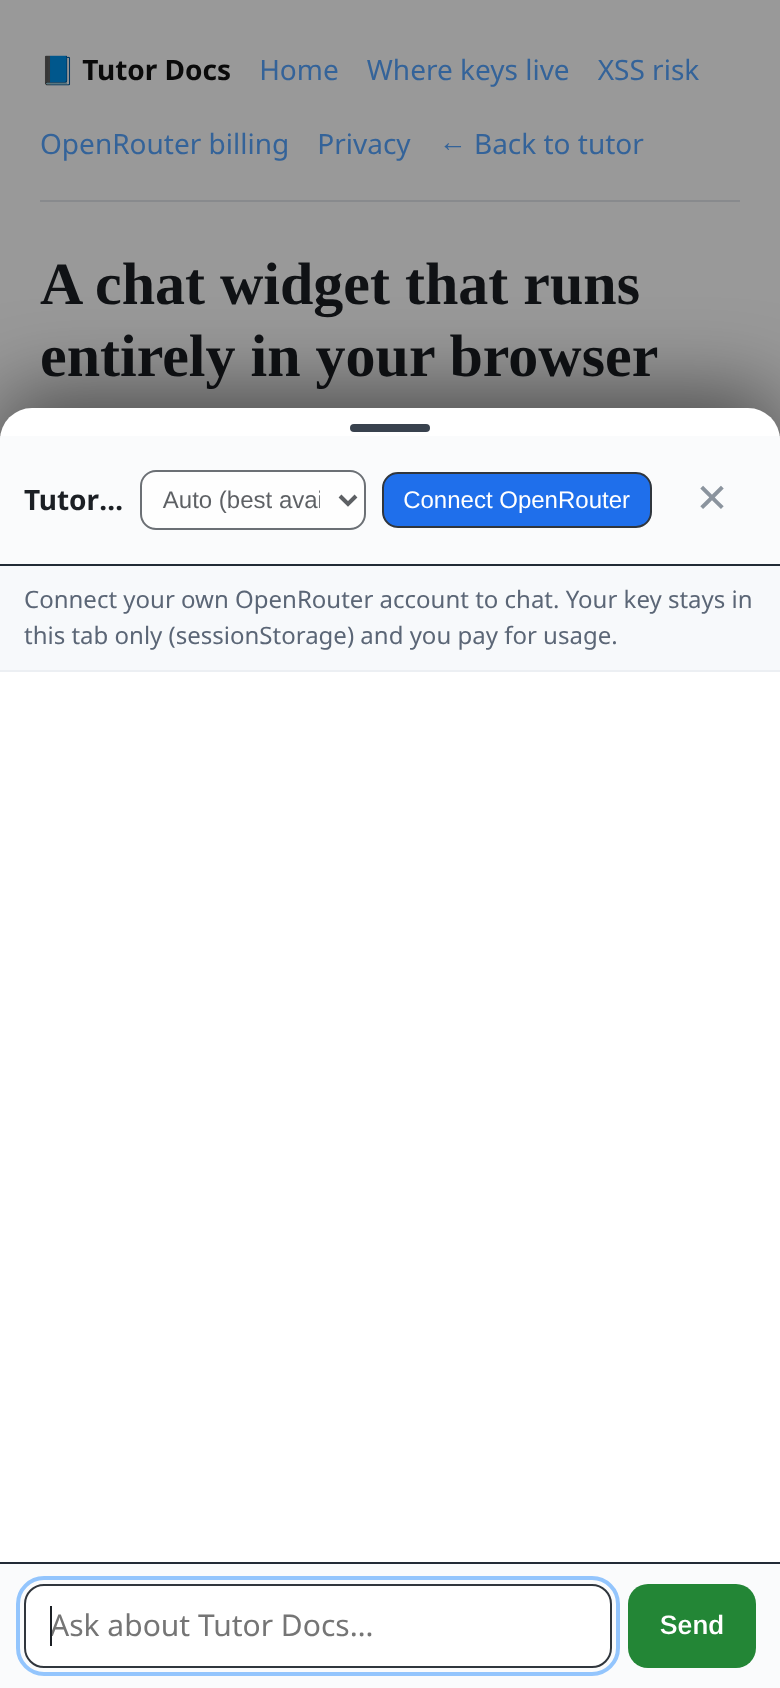
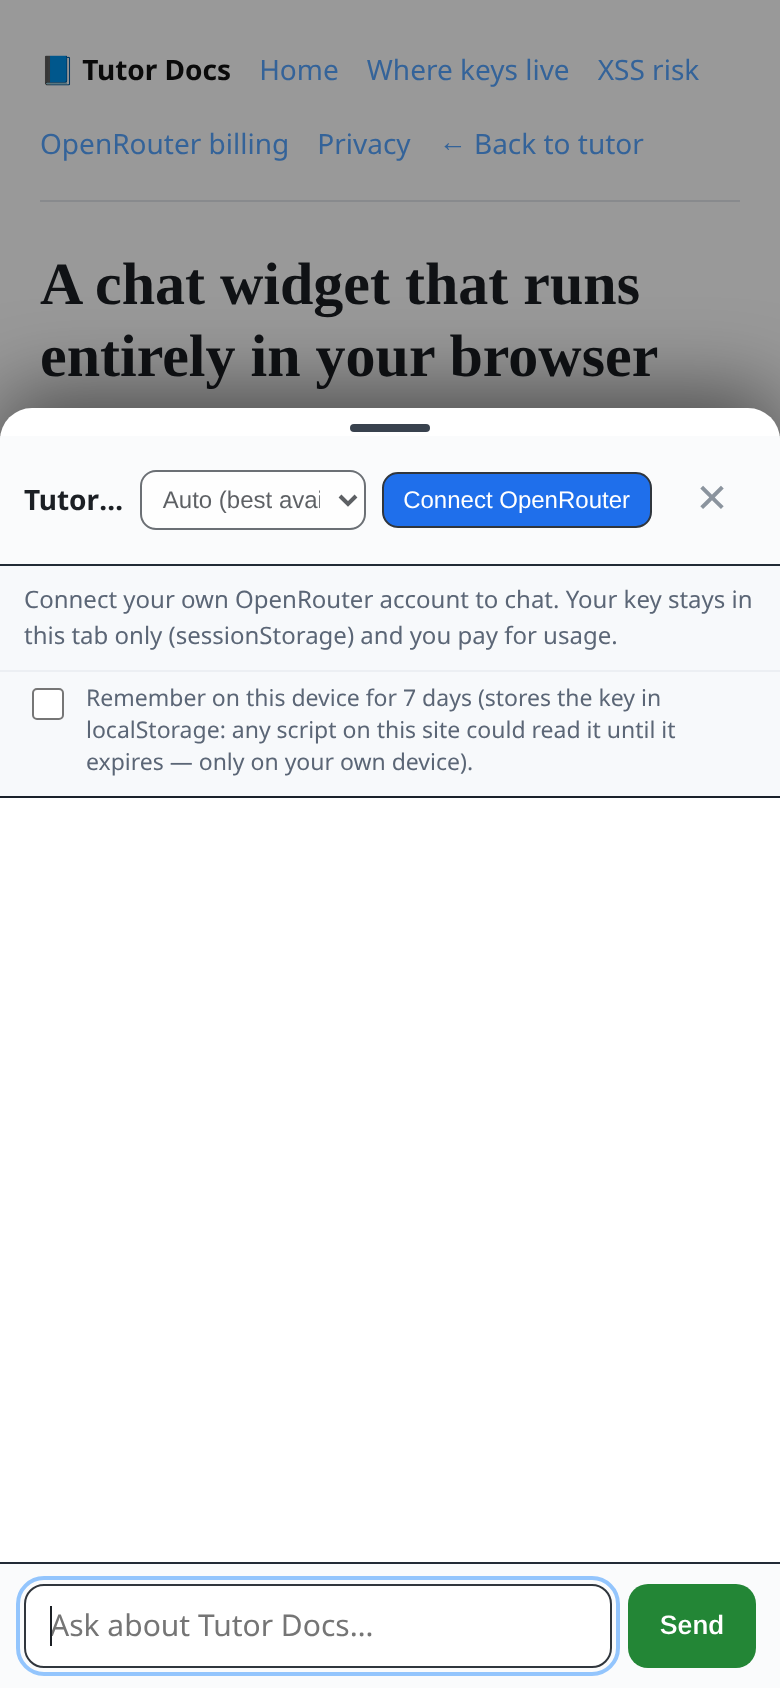
Widget OAuth: callback survives a new tab/Custom Tab; never fails silently
Root cause (Android Chrome report: back from OpenRouter but not connected): the
PKCE verifier was kept in sessionStorage, which is per-tab. When the OpenRouter
return opens in a new tab / Custom Tab / installed-app window, that storage is
empty, and the callback handler did 'if no verifier: return' -> no exchange, no
message, sheet closed, code left in the URL. Reproduced live.

- Verifier + random state in localStorage, 10-min TTL, one-time (deleted on
  use), state validated; challenge stays S256 base64url (no padding).
- Callback captured and the exchange started at script load, before UI/assets;
  code/state scrubbed from the URL immediately; works on /widget, /widget/ and
  /widget/index.html (/widget redirect now keeps the query).
- Result always shown: auto-opens the sheet with 'Connected', or the exact
  OpenRouter error text / missing / expired / state-mismatch / denied message.
- Key stays sessionStorage by default; opt-in 'Remember on this device' (7-day
  localStorage copy, explicit warning, picked up by other tabs, wiped by
  Disconnect).
- ?btw_debug=1 trace (sticky across the round-trip) shows callback steps; never
  the code or key.
- New scripts/widget-oauth-e2e.mjs (29 checks, new-tab return, forged state,
  REAL bogus-code error in UI); lesson page, gotcha and README updated.

Changed region(s): [[0.0923, 0.4005, 0.8615, 0.4621]]

diff --git a/public/widget.js b/public/widget.js
@@ -34,7 +34,11 @@
 
   // Own storage keys (never bt_sess / bt_chat).
   var K_KEY = "btw_or_key", K_UID = "btw_or_uid", K_MODEL = "btw_model",
-      K_CHAT = "btw_chat", K_PKCE = "btw_pkce";
+      K_CHAT = "btw_chat", K_PKCE = "btw_pkce",
+      // localStorage (survives a new tab / Custom Tab / installed-app return):
+      K_REMEMBER = "btw_remember", K_PERSIST = "btw_or_key_persist", K_DEBUG = "btw_debug";
+  var PKCE_TTL = 10 * 60 * 1000;            // matches OpenRouter's 10-minute code expiry
+  var REMEMBER_TTL = 7 * 24 * 3600 * 1000;  // opt-in "remember on this device"
 
   // Curated models for the picker. Default Auto; includes free models.
   var MODELS = [
@@ -163,6 +167,45 @@
   function sget(k) { var s = ss(); try { return s ? s.getItem(k) : null; } catch (e) { return null; } }
   function sset(k, v) { var s = ss(); try { if (s) s.setItem(k, v); } catch (e) {} }
   function sdel(k) { var s = ss(); try { if (s) s.removeItem(k); } catch (e) {} }
+  function ls() { try { return window.localStorage; } catch (e) { return null; } }
+  function lget(k) { var s = ls(); try { return s ? s.getItem(k) : null; } catch (e) { return null; } }
+  function lset(k, v) { var s = ls(); try { if (s) s.setItem(k, v); } catch (e) {} }
+  function ldel(k) { var s = ls(); try { if (s) s.removeItem(k); } catch (e) {} }
+
+  // ---- debug trace (?btw_debug=1 turns it on, sticky across the OAuth round-trip; ?btw_debug=0 off) ----
+  // Never records the authorization code or the key: only presence, lengths-free status and HTTP codes.
+  var DBG = [], DBG_EL = null;
+  function dbg(line) { DBG.push(new Date().toISOString().slice(11, 19) + "  " + line); if (DBG_EL) DBG_EL.textContent = DBG.join("\n"); }
+
+  // ---- OAuth callback capture: runs immediately on load, BEFORE any UI or asset loading ----
+  var CALLBACK = null;
+  (function captureCallback() {
+    var qs; try { qs = new URLSearchParams(location.search); } catch (e) { return; }
+    if (qs.has("btw_debug")) { if (qs.get("btw_debug") === "0") ldel(K_DEBUG); else lset(K_DEBUG, "1"); qs.delete("btw_debug"); }
+    var code = qs.get("code"), state = qs.get("state"), err = qs.get("error");
+    // Only treat it as OUR callback if it carries a state or we have a pending sign-in (so a host page's
+    // own ?code= is never hijacked).
+    var ours = (code || err) && (state || lget(K_PKCE));
+    if (ours) {
+      CALLBACK = { code: code, state: state, error: err };
+      ["code", "state", "error", "error_description"].forEach(function (k) { qs.delete(k); });
+    }
+    if (ours || location.search !== (qs.toString() ? "?" + qs.toString() : "")) {
+      // Scrub the one-time code (and the debug flag) from the address bar and history right away.
+      try { window.history.replaceState(window.history.state, document.title, location.pathname + (qs.toString() ? "?" + qs.toString() : "") + location.hash); } catch (e) {}
+    }
+    if (lget(K_DEBUG) === "1") {
+      dbg("debug on; page " + location.pathname);
+      dbg("pending sign-in in localStorage: " + (lget(K_PKCE) ? "yes" : "no"));
+      if (CALLBACK) dbg("callback detected: code " + (CALLBACK.code ? "present" : "absent") + ", state " + (CALLBACK.state ? "present" : "absent") + (CALLBACK.error ? ", error=" + String(CALLBACK.error).slice(0, 40) : ""));
+    }
+  })();
+  // Restore an opted-in remembered key into this tab (expired ones are purged).
+  (function restoreRemembered() {
+    if (sget(K_KEY)) return;
+    var raw = lget(K_PERSIST); if (!raw) return;
+    try { var p = JSON.parse(raw); if (p && p.k && p.exp > Date.now()) { sset(K_KEY, p.k); dbg("restored remembered key (expires " + new Date(p.exp).toISOString().slice(0, 10) + ")"); } else ldel(K_PERSIST); } catch (e) { ldel(K_PERSIST); }
+  })();
 
   var cfg = {
     siteName: (ME && ME.getAttribute("data-site-name")) || "this site",
@@ -229,31 +272,68 @@
   async function prepareAuth() {
     var verifier = makeVerifier(), state = randState();
     var challenge = await pkceChallenge(verifier);
-    sset(K_PKCE, JSON.stringify({ v: verifier, st: state, t: Date.now() }));
+    // localStorage (not sessionStorage) so the verifier survives the return landing in a NEW tab, a Custom
+    // Tab or an installed-app context. Short TTL, one-time: deleted the moment the callback reads it.
+    lset(K_PKCE, JSON.stringify({ v: verifier, st: state, t: Date.now(), exp: Date.now() + PKCE_TTL }));
     var u = new URL(OR_AUTH);
     u.searchParams.set("callback_url", location.origin + location.pathname);
     u.searchParams.set("code_challenge", challenge);
     u.searchParams.set("code_challenge_method", "S256");
     u.searchParams.set("state", state);
+    dbg("sign-in started; verifier stored (10 min, one-time); redirecting to OpenRouter");
     return u.toString();
   }
-  // Exchange a returned ?code for an sk-or key. Verifies state. Stores key in sessionStorage only.
-  async function exchangeCode(code, state) {
-    var raw = sget(K_PKCE); sdel(K_PKCE);
-    var pk = raw ? JSON.parse(raw) : null;
-    if (!pk || !pk.v || pk.st !== state) throw new Error("state mismatch");
-    var r = await fetch(OR_KEYS, {
-      method: "POST", headers: { "Content-Type": "application/json" },
-      body: JSON.stringify({ code: code, code_verifier: pk.v, code_challenge_method: "S256" })
-    });
-    var j = await r.json().catch(function () { return {}; });
-    if (!r.ok || !j.key) throw new Error("exchange failed (HTTP " + r.status + ")");
-    sset(K_KEY, j.key);
-    if (j.user_id) sset(K_UID, String(j.user_id));
-    return true;
+  function storeKey(key, uid) {
+    sset(K_KEY, key);
+    if (uid) sset(K_UID, String(uid));
+    if (lget(K_REMEMBER) === "1") lset(K_PERSIST, JSON.stringify({ k: key, exp: Date.now() + REMEMBER_TTL }));
   }
+  // Complete an OAuth return. Never throws; resolves {ok, error} so the UI can always say what happened.
+  async function runCallback(cb) {
+    var raw = lget(K_PKCE); ldel(K_PKCE); // one-time
+    var pk = null; try { pk = raw ? JSON.parse(raw) : null; } catch (e) {}
+    if (!cb.code) {
+      dbg("authorization: not granted" + (cb.error ? " (" + String(cb.error).slice(0, 40) + ")" : ""));
+      return { ok: false, error: "OpenRouter sign-in was cancelled or denied" + (cb.error ? " (" + String(cb.error).slice(0, 60) + ")" : "") + ". Tap Connect OpenRouter to try again." };
+    }
+    if (!pk || !pk.v) {
+      dbg("stored verifier: MISSING");
+      return { ok: false, error: "This sign-in wasn't started in this browser (or its site data was cleared), so it can't be completed here. Tap Connect OpenRouter to start again from this page." };
+    }
+    if (!pk.exp || pk.exp < Date.now()) {
+      dbg("stored verifier: EXPIRED");
+      return { ok: false, error: "The sign-in took longer than 10 minutes and expired. Tap Connect OpenRouter to try again." };
+    }
+    dbg("stored verifier: present (started " + Math.round((Date.now() - (pk.t || Date.now())) / 1000) + "s ago)");
+    if (!cb.state || cb.state !== pk.st) {
+      dbg("state match: NO — rejected, no exchange attempted");
+      return { ok: false, error: "Security check failed: the sign-in response didn't match the request (state mismatch). Tap Connect OpenRouter to try again." };
+    }
+    dbg("state match: yes; exchanging code at openrouter.ai");
+    var r, j;
+    try {
+      r = await fetch(OR_KEYS, { method: "POST", headers: { "Content-Type": "application/json" },
+        body: JSON.stringify({ code: cb.code, code_verifier: pk.v, code_challenge_method: "S256" }) });
+      j = await r.json().catch(function () { return {}; });
+    } catch (e) {
+      dbg("exchange: network error");
+      return { ok: false, error: "Couldn't reach OpenRouter to finish connecting (" + String((e && e.message) || e) + "). Check your connection and tap Connect OpenRouter again." };
+    }
+    dbg("exchange: HTTP " + r.status + (j && j.key ? " (key received)" : ""));
+    if (!r.ok || !j || !j.key) {
+      var m = (j && j.error && (j.error.message || j.error)) || j.message || "no key returned";
+      return { ok: false, error: "OpenRouter said: \u201c" + String(m).replace(/sk-or-[A-Za-z0-9._-]+/g, "[redacted]").slice(0, 200) + "\u201d (HTTP " + r.status + "). Tap Connect OpenRouter to try again." };
+    }
+    storeKey(j.key, j.user_id);
+    dbg("key stored in this tab's sessionStorage" + (lget(K_REMEMBER) === "1" ? " + remembered on this device (7 days)" : ""));
+    return { ok: true };
+  }
+  // Kept for tests/back-compat: throws on failure.
+  async function exchangeCode(code, state) { var r = await runCallback({ code: code, state: state }); if (!r.ok) throw new Error(r.error); return true; }
   function connected() { return !!sget(K_KEY); }
-  function disconnect() { [K_KEY, K_UID, K_CHAT, K_MODEL].forEach(sdel); }
+  function disconnect() { [K_KEY, K_UID, K_CHAT, K_MODEL].forEach(sdel); ldel(K_PERSIST); ldel(K_REMEMBER); ldel(K_PKCE); }
+  // Start the code exchange NOW, in parallel with loading the UI assets, so nothing can skip it.
+  var EXCHANGE = CALLBACK ? runCallback(CALLBACK) : null;
 
   // ------------------------------ chat (stream) -----------------------------
   async function streamChat(messages, model, onDelta, signal) {
@@ -334,13 +414,21 @@
 
     var log = h("div", "btw-log"); log.setAttribute("aria-live", "polite");
     var note = h("div", "btw-note");
+    var remWrap = h("label", "btw-remember");
+    var rem = document.createElement("input"); rem.type = "checkbox"; rem.checked = lget(K_REMEMBER) === "1";
+    var remTxt = h("span", null, "Remember on this device for 7 days (stores the key in localStorage: any script on this site could read it until it expires — only on your own device).");
+    remWrap.appendChild(rem); remWrap.appendChild(remTxt);
+    var dbgEl = null;
+    if (lget(K_DEBUG) === "1") { dbgEl = h("pre", "btw-debug"); dbgEl.setAttribute("aria-label", "Debug trace"); DBG_EL = dbgEl; dbgEl.textContent = DBG.join("\n"); }
     var form = document.createElement("form"); form.className = "btw-composer";
     var ta = document.createElement("textarea"); ta.className = "btw-input"; ta.rows = 1;
     ta.setAttribute("placeholder", "Ask about " + cfg.siteName + "…"); ta.setAttribute("aria-label", "Message"); ta.maxLength = 2000;
     var sendBtn = h("button", "btw-send", "Send"); sendBtn.type = "submit";
     form.appendChild(ta); form.appendChild(sendBtn);
 
-    sheet.appendChild(grip); sheet.appendChild(head); sheet.appendChild(note); sheet.appendChild(log); sheet.appendChild(form);
+    sheet.appendChild(grip); sheet.appendChild(head); sheet.appendChild(note); sheet.appendChild(remWrap);
+    if (dbgEl) sheet.appendChild(dbgEl);
+    sheet.appendChild(log); sheet.appendChild(form);
     root.appendChild(fab); root.appendChild(backdrop); root.appendChild(sheet);
     document.body.appendChild(root);
 
@@ -389,8 +477,11 @@
       conn.textContent = on ? "Disconnect" : "Connect OpenRouter";
       conn.className = "btw-conn" + (on ? " on" : "");
       sel.disabled = !on; ta.disabled = false; sendBtn.disabled = false; // typing allowed pre-connect; Send prompts to connect
+      rem.checked = lget(K_REMEMBER) === "1";
       note.textContent = on
-        ? "Connected. Replies use YOUR OpenRouter key (billed to you). Key stays in this tab's sessionStorage only."
+        ? (lget(K_REMEMBER) === "1"
+            ? "Connected. Replies use YOUR OpenRouter key (billed to you). Remembered on this device for 7 days (localStorage) — untick to forget it."
+            : "Connected. Replies use YOUR OpenRouter key (billed to you). Key stays in this tab's sessionStorage only.")
         : "Connect your own OpenRouter account to chat. Your key stays in this tab only (sessionStorage) and you pay for usage.";
       if (on && !log.childElementCount && !history.length) addMsg("assistant", "Hi! Ask me anything about **" + cfg.siteName + "**. I can use the current page and search the rest of the site.");
     }
@@ -402,6 +493,16 @@
       catch (e) { conn.disabled = false; refresh(); addMsg("assistant", "Could not start the OpenRouter sign-in."); }
     });
     sel.addEventListener("change", function () { sset(K_MODEL, sel.value); });
+    rem.addEventListener("change", function () {
+      if (rem.checked) { lset(K_REMEMBER, "1"); setTimeout(refresh, 0); var k = sget(K_KEY); if (k) lset(K_PERSIST, JSON.stringify({ k: k, exp: Date.now() + REMEMBER_TTL })); dbg("remember on this device: ON"); }
+      else { ldel(K_REMEMBER); ldel(K_PERSIST); setTimeout(refresh, 0); dbg("remember on this device: OFF (persisted key removed)"); }
+    });
+    // If the OAuth return finished in ANOTHER tab with "remember" on, pick the key up here too.
+    window.addEventListener("storage", function (e) {
+      if (e.key === K_PERSIST && e.newValue && !connected()) {
+        try { var p = JSON.parse(e.newValue); if (p && p.k && p.exp > Date.now()) { sset(K_KEY, p.k); refresh(); addMsg("assistant", "✅ Connected (finished in another tab)."); } } catch (x) {}
+      }
+    });
 
     ta.addEventListener("keydown", function (e) {
       if (e.key === "Enter" && !e.shiftKey) { e.preventDefault(); form.requestSubmit(); }
@@ -448,25 +549,20 @@
       } finally { busy = false; sendBtn.disabled = false; }
     }
 
-    // Handle an OAuth return (?code&state) landing back on this same page.
-    (async function handleReturn() {
-      var qs = new URLSearchParams(location.search);
-      var code = qs.get("code"), state = qs.get("state");
-      if (!code || !state || !sget(K_PKCE)) return;
-      var exErr = null;
-      try { await exchangeCode(code, state); } catch (e) { exErr = String((e && e.message) || e); }
-      // Scrub the code/state from the URL without reload.
-      qs.delete("code"); qs.delete("state");
-      var clean = location.pathname + (qs.toString() ? "?" + qs.toString() : "") + location.hash;
+    // OAuth return: the exchange already started before the UI loaded. Show the outcome in the sheet.
+    if (EXCHANGE) {
       history.length = 0;
-      try { window.history.replaceState({}, document.title, clean); } catch (e) {}
-      open();
-      if (exErr) addMsg("assistant", "⚠ Could not finish connecting to OpenRouter (" + friendly(exErr) + "). Tap **Connect OpenRouter** to try again.");
-    })();
+      EXCHANGE.then(function (res) {
+        open();
+        if (res.ok) { refresh(); addMsg("assistant", "✅ **Connected to OpenRouter.** Ask me anything about **" + cfg.siteName + "** — replies are billed to your OpenRouter credits."); }
+        else { refresh(); addMsg("assistant", "⚠ " + res.error); }
+      });
+    }
 
     refresh();
     G.__btwUI = { open: open, close: closeSheet, refresh: refresh, submit: submit, addMsg: addMsg,
-      prepareAuth: prepareAuth, exchangeCode: exchangeCode, connected: connected, disconnect: disconnect,
+      prepareAuth: prepareAuth, exchangeCode: exchangeCode, runCallback: runCallback, connected: connected, disconnect: disconnect,
+      exchangeDone: function () { return EXCHANGE ? EXCHANGE.then(function (r) { return r; }) : Promise.resolve(null); },
       ensureIndex: ensureIndex, getIndex: function () { return INDEX; }, render: render,
       setInput: function (v) { ta.value = v; }, els: { ta: ta, log: log, sel: sel } };
   }

diff --git a/public/widget/storage.html b/public/widget/storage.html
@@ -9,8 +9,12 @@
 <p>When you connect OpenRouter in this widget, the issued <code>sk-or</code> key is stored in <strong>sessionStorage</strong> under the key name <code>btw_or_key</code>. sessionStorage is scoped to this one browser tab and this one origin, and it is <strong>cleared automatically when you close the tab</strong>.</p>
 <h2>Why sessionStorage and not a cookie</h2>
 <p>A cookie would be sent to the server on every request — but there is no server here, and we never want the key to leave your browser except in the Authorization header to OpenRouter itself. sessionStorage keeps the key client-side, per-tab, and short-lived. The <strong>Disconnect</strong> button wipes <code>btw_or_key</code>, the cached user id, the model choice and the chat history immediately.</p>
+<h2>The sign-in round-trip</h2>
+<p>When you tap <strong>Connect OpenRouter</strong>, the widget creates a one-time PKCE <code>code_verifier</code> and a random <code>state</code> and keeps them in <strong>localStorage</strong> under <code>btw_pkce</code> for at most <strong>10 minutes</strong> (OpenRouter's code lifetime). It is localStorage rather than sessionStorage because on phones the return from OpenRouter can open in a <strong>new tab</strong>, a Custom Tab or an installed-app window, where this tab's sessionStorage does not exist. The entry is deleted the moment the return is handled, the <code>state</code> must match, and the code is scrubbed from the address bar. The verifier alone is useless without the code.</p>
+<h2>Optional: remember on this device</h2>
+<p>By default the key is session-only. If you tick <strong>Remember on this device for 7 days</strong>, a copy goes to localStorage (<code>btw_or_key_persist</code>) with a 7-day expiry, so it survives closing the tab and is picked up by your other tabs. That is more convenient but riskier: until it expires, any script running on this site could read it. Only use it on your own device; <strong>Disconnect</strong> wipes it.</p>
 <h2>What is NOT used</h2>
-<p>The widget never writes to <code>localStorage</code> (which would survive tab close) and never touches the tutor's own login cookie <code>bt_sess</code> or its saved transcript <code>bt_chat</code>. It only uses its own <code>btw_</code>-prefixed keys. Conversation history also lives only in sessionStorage and disappears when the tab closes.</p>
+<p>Apart from the short-lived sign-in entry above and the opt-in remember copy, the key never goes to <code>localStorage</code>, and the widget never touches the tutor's own login cookie <code>bt_sess</code> or its saved transcript <code>bt_chat</code>. It only uses its own <code>btw_</code>-prefixed keys. Conversation history also lives only in sessionStorage and disappears when the tab closes.</p>
 <div class="callout">Rule of thumb: a key in sessionStorage is readable by any JavaScript running on this origin. That is the visitor's own risk, which the <a href="/widget/xss.html">XSS page</a> explains.</div>
 </article></div>
 <script src="/static/widget.js" data-site-name="Tutor Docs" data-context-selector="article" data-default-model="openrouter/auto" data-index="/widget/site-index.json"></script>

diff --git a/public/widget/privacy.html b/public/widget/privacy.html
@@ -10,7 +10,7 @@
 <h2>Page text is treated as data</h2>
 <p>The current page's text and the retrieved site excerpts are wrapped in explicit delimiters and stripped of control characters before being sent, and the system prompt tells the model to treat them as data, not instructions. This reduces prompt-injection from page content.</p>
 <h2>Where things are stored</h2>
-<p>Your key, chosen model and chat history all live in this tab's <code>sessionStorage</code> and are gone when the tab closes. See <a href="/widget/storage.html">where your key lives</a> for the exact key names.</p>
+<p>Your key, chosen model and chat history live in this tab's <code>sessionStorage</code> and are gone when the tab closes. The only localStorage entries are a one-time sign-in verifier (deleted on return, 10-minute cap) and, only if you opt in, a 7-day remembered key. See <a href="/widget/storage.html">where your key lives</a> for the exact key names.</p>
 </article></div>
 <script src="/static/widget.js" data-site-name="Tutor Docs" data-context-selector="article" data-default-model="openrouter/auto" data-index="/widget/site-index.json"></script>
 </body></html>

diff --git a/public/widget.css b/public/widget.css
@@ -33,3 +33,7 @@
 .btw-send:disabled { opacity: .5; cursor: not-allowed; }
 @media (min-width: 560px) { .btw-sheet { right: 16px; left: auto; bottom: 16px; border-radius: 16px; } }
 @media (prefers-color-scheme: light) { .btw-sheet { background: #fff; color: #1b1f24; } .btw-assistant { background: #f3f5f8; border-color: #e3e7ec; } .btw-note { background: #f7f9fb; color: #5b6676; border-color: #eceff3; } .btw-composer, .btw-head { background: #fafbfc; } .btw-input, .btw-model { background: #fff; color: #1b1f24; } }
+.btw-remember { display: flex; gap: 8px; align-items: flex-start; padding: 6px 12px 8px; font-size: 11.5px; line-height: 1.4; color: #9aa7b4; background: #0c1016; border-bottom: 1px solid #1a212b; cursor: pointer; }
+.btw-remember input { margin-top: 2px; width: 16px; height: 16px; flex: 0 0 auto; }
+.btw-debug { margin: 0; max-height: 120px; overflow: auto; padding: 6px 12px; font: 11px/1.45 ui-monospace, Menlo, monospace; color: #7ee787; background: #05080c; border-bottom: 1px solid #1a212b; white-space: pre-wrap; }
+@media (prefers-color-scheme: light) { .btw-remember { background: #f7f9fb; color: #5b6676; } }

diff --git a/README.md b/README.md
@@ -117,7 +117,7 @@ would bypass the allow-list and open the app to anyone with an OpenRouter accoun
 
 ## Client-side chat widget (static-site pilot)
 
-`/widget/` is a pilot of a **framework-free, backend-free chat widget** you can drop into any static site (e.g. GitHub Pages) with a single `<script>` tag. There are **zero calls back to this server**: the widget runs OpenRouter OAuth PKCE (S256) in the browser, holds the issued `sk-or` key in **sessionStorage only** (cleared on tab close; **Disconnect** wipes it), and calls `https://openrouter.ai/api/v1/chat/completions` directly with streaming (default `openrouter/auto`, free models in the picker). Replies render through the same vendored **marked + DOMPurify** pipeline (never raw `innerHTML`).
+`/widget/` is a pilot of a **framework-free, backend-free chat widget** you can drop into any static site (e.g. GitHub Pages) with a single `<script>` tag. There are **zero calls back to this server**: the widget runs OpenRouter OAuth PKCE (S256) in the browser, holds the issued `sk-or` key in **sessionStorage** by default (cleared on tab close; **Disconnect** wipes it; opt-in *Remember on this device* keeps a 7-day copy in localStorage). The PKCE verifier + state sit in localStorage for ≤10 minutes, one-time, so the OAuth return still works when it lands in a new tab/Custom Tab on Android; add `?btw_debug=1` to see the callback steps (never the code or key), and calls `https://openrouter.ai/api/v1/chat/completions` directly with streaming (default `openrouter/auto`, free models in the picker). Replies render through the same vendored **marked + DOMPurify** pipeline (never raw `innerHTML`).
 
 It is **page-aware and site-aware**: it sends the current page's visible text (capped, control-chars stripped, delimited as data) and does lightweight in-browser **BM25 retrieval** over a build-time `site-index.json`, sending the top chunks and **citing the source pages as links**. It is isolated from the tutor's own server-side OpenRouter session — it uses its own `btw_*` storage keys and never touches `bt_sess` or `bt_chat`, and it is deliberately **not** GitHub-gated (the realistic static-site case). The only cost exposure is the visitor's own key.
 
@@ -183,6 +183,7 @@ node scripts/markdown-xss.mjs      # model output with <script>/<img onerror>/ja
 node scripts/xss-lab-e2e.mjs       # XSS lab: payloads fire in vuln variants, blocked in fixed; isolation, frame-ancestors, no URL payloads (needs the lab origin on LAB_PORT)
 node scripts/widget-unit.mjs       # client-side widget: PKCE S256, BM25 retrieval, page-text cleaning, delimited context builder
 node scripts/widget-e2e.mjs        # widget pilot: real-touch mobile open/close/reopen (backdrop, Android back), no overflow, 44px targets, pre-connect prompt; mocked connect -> chat (cited) -> disconnect
+node scripts/widget-oauth-e2e.mjs       # OAuth return in a NEW tab completes; state mismatch / missing / expired / denied all shown; /widget + /widget/index.html; debug trace never leaks; remember opt-in; REAL bogus-code error surfaced
 node scripts/widget-openrouter-live.mjs  # widget against the REAL OpenRouter (no key): auth/keys dummy -> readable 400, chat bogus key -> readable 401, CORS/CSP ok (errors surface, not silent)
 node scripts/e2e-mobile.mjs        # responsive checks at 360/390/768/1280 (needs: npm i --no-save puppeteer-core@23)
 ```
